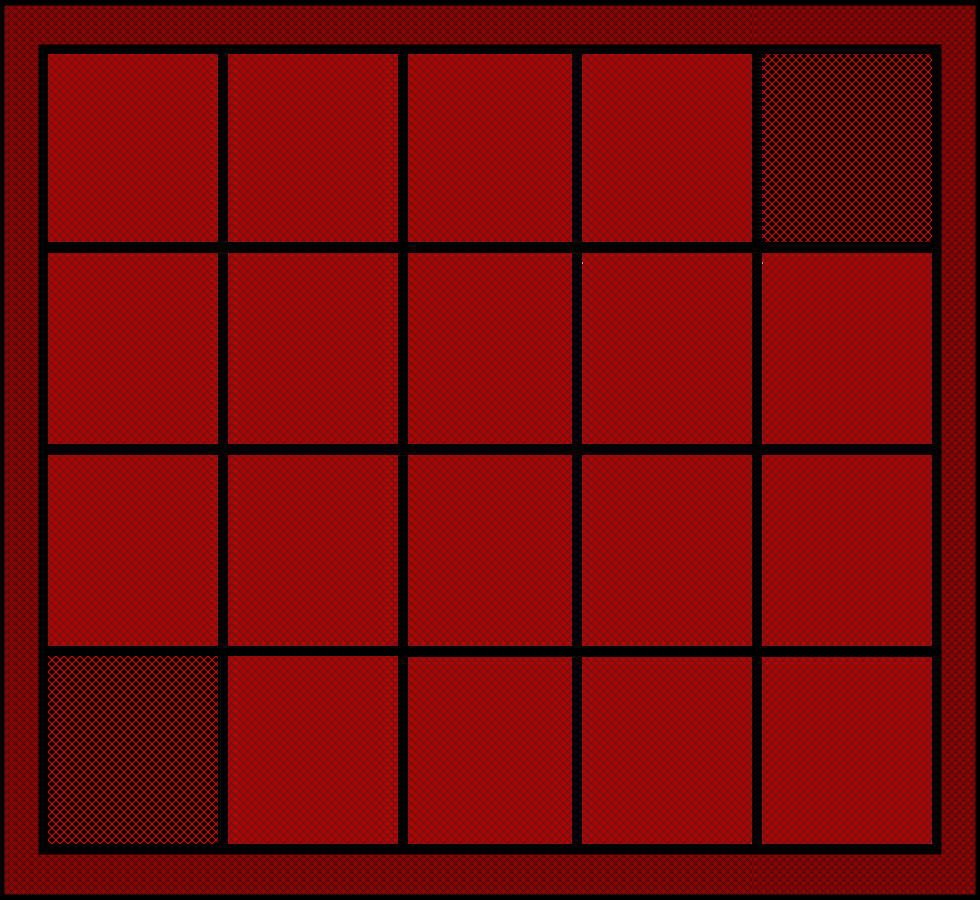
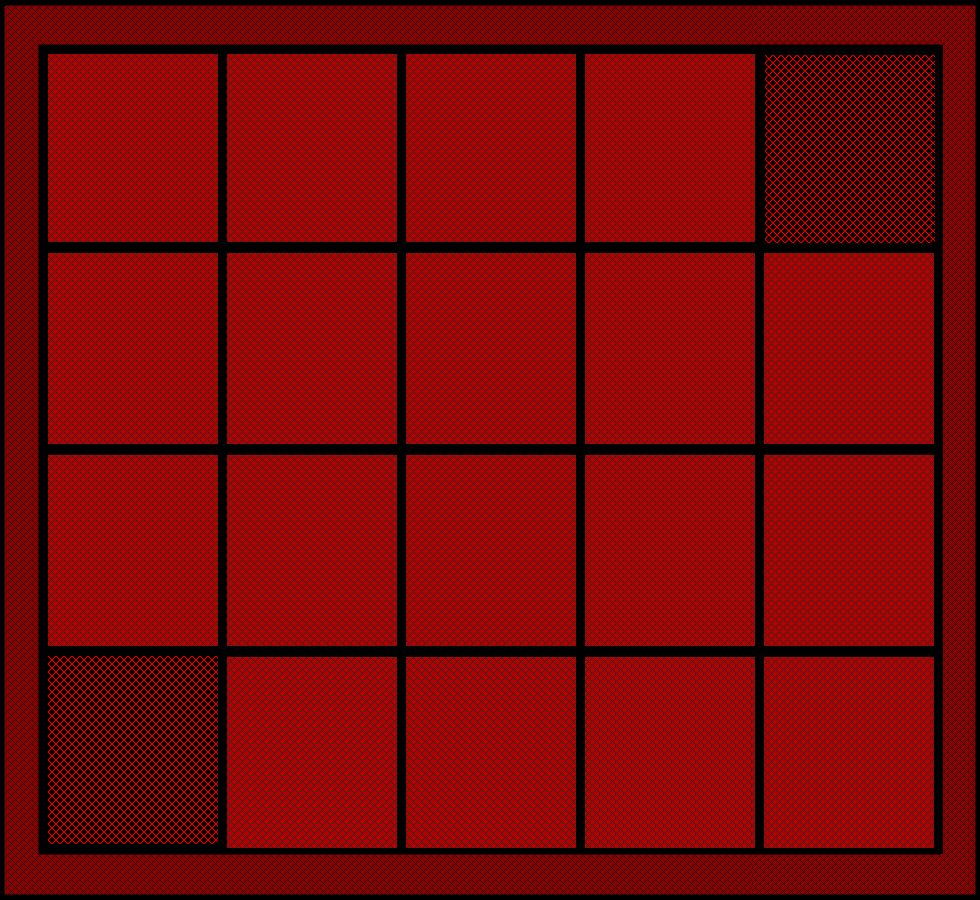
Highlight finished

Changed region(s): [[0.2143, 0.0622, 0.9796, 0.9644]]

diff --git a/CardWars/src/com/github/brockstar17/CardWars.java b/CardWars/src/com/github/brockstar17/CardWars.java
@@ -13,11 +13,11 @@ import java.io.IOException;
 import javax.imageio.ImageIO;
 import javax.swing.JFrame;
 
+import com.github.brockstar17.util.BoardSpaces;
 import com.github.brockstar17.util.ImageUtils;
 
 @SuppressWarnings("serial")
-public class CardWars extends JFrame implements MouseMotionListener, MouseListener
-{
+public class CardWars extends JFrame implements MouseMotionListener, MouseListener {
 
 	private static Dimension screenSize = Toolkit.getDefaultToolkit().getScreenSize();
 	public static int screenX;
@@ -27,11 +27,12 @@ public class CardWars extends JFrame implements MouseMotionListener, MouseListen
 	public static BufferedImage yin = null;
 	public static BufferedImage hl = null;
 
-	public CardWars()
-	{
+	public static int cellW, cellH;
+	public static int mx, my;
 
-		try
-		{
+	public CardWars() {
+
+		try {
 			board = ImageIO.read(new File("src/resources/board.png"));
 
 			screenX = ImageUtils.calcWidth(board.getHeight(), screenY, board.getWidth());
@@ -39,18 +40,25 @@ public class CardWars extends JFrame implements MouseMotionListener, MouseListen
 			board = ImageUtils.scale(board, screenX, screenY);
 
 			yin = ImageIO.read(new File("src/resources/yin.png"));
-			yin = ImageUtils.scale(yin, ImageUtils.calcWidth(yin.getHeight(), screenY * .2, yin.getWidth()), (int) (screenY * .2));
+			yin = ImageUtils.scale(yin, ImageUtils.calcWidth(yin.getHeight(), screenY * .2, yin.getWidth()),
+					(int) (screenY * .2));
 
 			hl = ImageIO.read(new File("src/resources/highlight.png"));
-			hl = ImageUtils.scale(hl, ImageUtils.calcWidth(hl.getHeight(), screenY * .23, hl.getWidth()), (int) (screenY * .231));
-			System.out.println("Debug");
-		} catch (IOException e)
-		{
+			hl = ImageUtils.scale(hl, ImageUtils.calcWidth(hl.getHeight(), screenY * .233, hl.getWidth()),
+					(int) (screenY * .232));
+
+			cellW = hl.getWidth();
+			cellH = hl.getHeight();
+		} catch (IOException e) {
 			System.out.println("Something went wrong");
 		}
 
+		BoardSpaces.initCorners();
+
 		Container c = getContentPane();
 		c.add(new Paint());
+		c.addMouseMotionListener(this);
+		c.addMouseListener(this);
 	}
 
 	public static void main(String[] args) {
@@ -68,12 +76,15 @@ public class CardWars extends JFrame implements MouseMotionListener, MouseListen
 	// -------------------------------------------------------------------------------------\\
 
 	@Override
-	public void mouseDragged(MouseEvent arg0) {
+	public void mouseDragged(MouseEvent e) {
 	}
 
 	// this function will be for hovering
 	@Override
-	public void mouseMoved(MouseEvent arg0) {
+	public void mouseMoved(MouseEvent e) {
+		mx = e.getX();
+		my = e.getY();
+		repaint();
 	}
 
 	// -------------------------------------------------------------------------------------\\
@@ -93,6 +104,7 @@ public class CardWars extends JFrame implements MouseMotionListener, MouseListen
 	// this is the other click function
 	@Override
 	public void mousePressed(MouseEvent e) {
+		
 	}
 
 	// this is the click function

diff --git a/CardWars/src/com/github/brockstar17/util/BoardSpaces.java b/CardWars/src/com/github/brockstar17/util/BoardSpaces.java
@@ -1,0 +1,55 @@
+package com.github.brockstar17.util;
+
+import com.github.brockstar17.CardWars;
+
+public class BoardSpaces {
+
+	private static int[] cornX = new int[20]; 
+	private static int[] cornY = new int[20];
+	
+	public static void initCorners(){
+		for(int i = 0; i < cornX.length; i++)
+		{
+			if(i <= 4)
+			{
+				cornX[i] = (int) (CardWars.screenX * .0381) + (int)(CardWars.screenX * .245 * i * .747); 
+				cornY[i] = (int) (CardWars.screenY * .049);
+			}
+			else if(i <= 9)
+			{
+				cornX[i] = (int) (CardWars.screenX * .0381) + (int)(CardWars.screenX * .245 * (i-5) * .747); 
+				cornY[i] = (int) (CardWars.screenY * .272);
+			}
+			else if(i <= 14)
+			{
+				cornX[i] = (int) (CardWars.screenX * .0381) + (int)(CardWars.screenX * .245 * (i-10) * .747); 
+				cornY[i] = (int) (CardWars.screenY * .495);
+			}
+			else
+			{
+				cornX[i] = (int) (CardWars.screenX * .0381) + (int)(CardWars.screenX * .245 * (i-15) * .747); 
+				cornY[i] = (int) (CardWars.screenY * .72);
+			}
+		}
+	}
+	
+	public static int getCellX(int i){
+		return cornX[i];
+	}
+	
+	public static int getCellY(int i){
+		return cornY[i];
+	}
+	
+	public static int getCell(int x, int y){
+		for(int i = 0; i < cornX.length; i++)
+		{
+			if(x > cornX[i] && x < cornX[i] + CardWars.cellW
+					&& y > cornY[i] && y < cornY[i] + CardWars.cellH)
+			{
+				return i;
+			}
+		}
+		return -1;
+	}
+}

diff --git a/CardWars/src/com/github/brockstar17/Paint.java b/CardWars/src/com/github/brockstar17/Paint.java
@@ -5,6 +5,8 @@ import java.util.ArrayList;
 
 import javax.swing.JPanel;
 
+import com.github.brockstar17.util.BoardSpaces;
+
 @SuppressWarnings("serial")
 public class Paint extends JPanel
 {
@@ -17,7 +19,7 @@ public class Paint extends JPanel
 
 		g.drawImage(CardWars.board, 0, 0, null);
 
-		drawCards(g);
+		//drawCards(g);
 
 		highlight(g);
 	}
@@ -27,7 +29,18 @@ public class Paint extends JPanel
 	}
 
 	private void highlight(Graphics g) {
-		g.drawImage(CardWars.hl, (int) (CardWars.screenX * .223), (int) (CardWars.screenY * .05), null);
+		//g.drawImage(CardWars.hl, (int) (CardWars.screenX * .222), (int) (CardWars.screenY * .049), null);
 		// System.out.println("Debug");
+		/*for(int i = 0; i <=19; i++)
+		{
+			g.drawImage(CardWars.hl, BoardSpaces.getCellX(i), BoardSpaces.getCellY(i), null);
+		}*/
+		
+		if(BoardSpaces.getCell(CardWars.mx, CardWars.my) != -1)
+		{
+			g.drawImage(CardWars.hl, BoardSpaces.getCellX(BoardSpaces.getCell(CardWars.mx, CardWars.my)), BoardSpaces.getCellY(BoardSpaces.getCell(CardWars.mx, CardWars.my)), null);
+			
+		}
+		
 	}
 }
